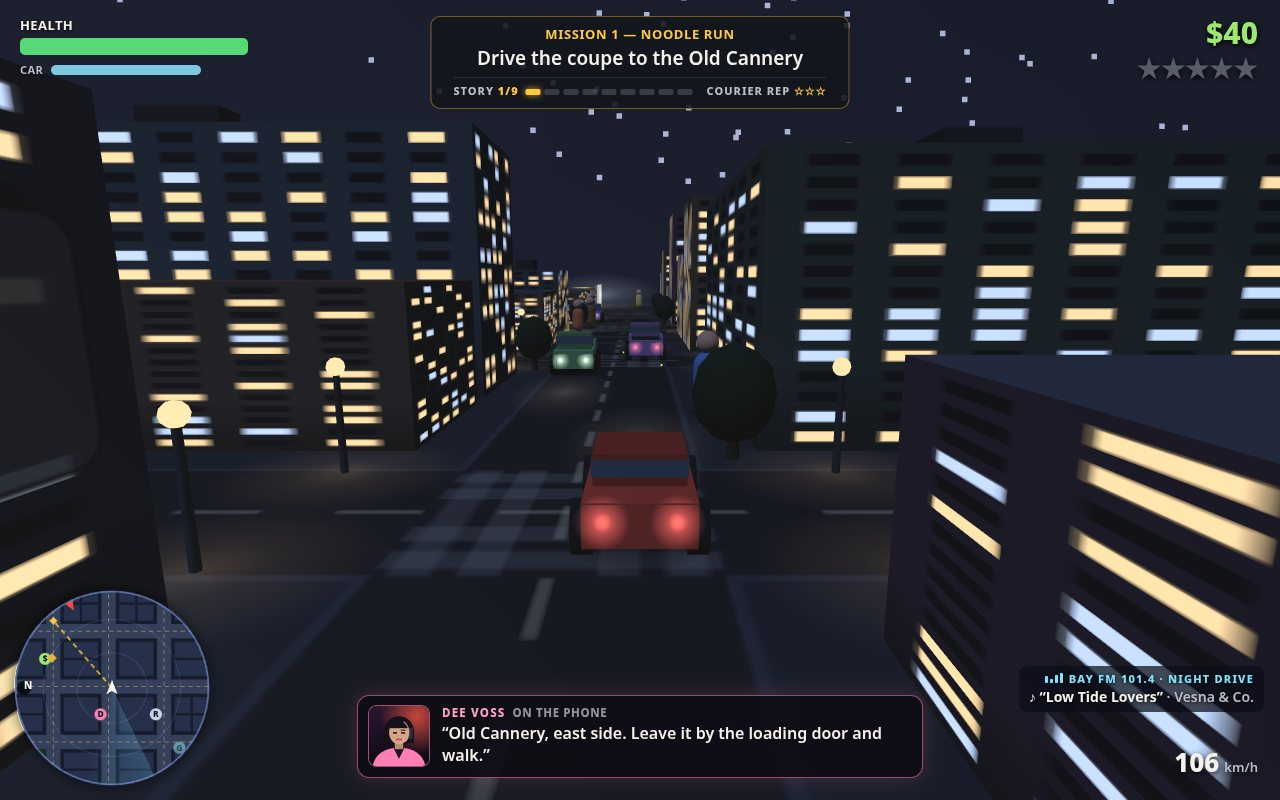
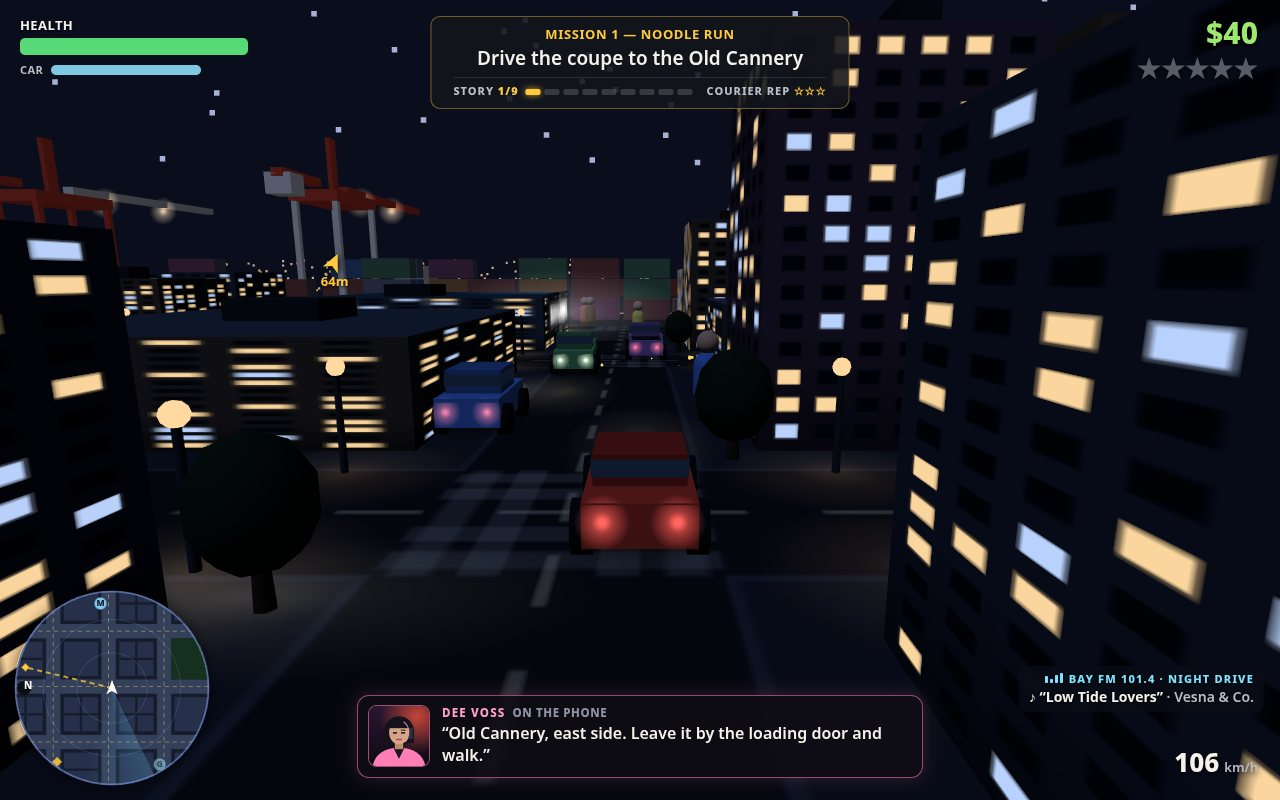
Round 7.9: a visible port — quay, containers, gantry cranes, ship, far shore
East shore by the Marina and Cannery: quay slab with a painted edge,
instanced container stacks (colours from hash2), a docked feeder ship, four
red/white gantry cranes with booms over the water, floodlights and blinking
red aviation beacons (from state.time), and the far shore's lights across the
bay. Water gets a faint emissive. The drive shot (Mission 1, to the Cannery)
now rolls two blocks further east so the street ends on the cranes.

diff --git a/game/src/render3d.js b/game/src/render3d.js
@@ -266,7 +266,7 @@ export function createRenderer(canvas, city) {
   // Water all around, and the island slab the city stands on.
   const water = new THREE.Mesh(
     new THREE.PlaneGeometry(11000, 11000),
-    new THREE.MeshLambertMaterial({ color: 0x0d2032 }),
+    new THREE.MeshLambertMaterial({ color: 0x0f2638, emissive: 0x06121e }),
   );
   water.rotation.x = -Math.PI / 2;
   water.position.set(city.size / 2, -3, city.size / 2);
@@ -419,6 +419,87 @@ export function createRenderer(canvas, city) {
       canopies.setMatrixAt(i, dummy.matrix);
     });
     scene.add(trunks, canopies);
+  }
+
+  // The port, on the east shore by the Marina and the Cannery: a quay, container
+  // stacks, a docked feeder ship, gantry cranes with booms out over the bay and
+  // blinking aviation lights, and the far shore's lights across the water.
+  const E = city.size + 75;
+  const portLights = [];
+  {
+    const quay = new THREE.Mesh(new THREE.BoxGeometry(170, 6, city.size + 150), new THREE.MeshLambertMaterial({ color: 0x2c2f36 }));
+    quay.position.set(E + 85, -3, city.size / 2);
+    scene.add(quay);
+    const edge = new THREE.Mesh(new THREE.BoxGeometry(4, 1.2, city.size + 150), new THREE.MeshBasicMaterial({ color: 0xc9a43a }));
+    edge.position.set(E + 168, 0.6, city.size / 2);
+    scene.add(edge);
+    // Containers: instanced boxes, three high at most, colours from a hash of the slot.
+    const BOX_COLORS = [0x8e3b2e, 0x2f5f8a, 0x3f7a4c, 0xb8742e, 0x6d6f78, 0x8a2f55];
+    const slots = [];
+    for (let row = 0; row < 3; row += 1) {
+      for (let z = 60; z < city.size; z += 66) {
+        const h = Math.floor(hash2(row * 97 + 5, z) * 4);
+        for (let k = 0; k < h; k += 1) slots.push([E + 30 + row * 28, 13 + k * 26, z, BOX_COLORS[Math.floor(hash2(z, row * 13 + k) * BOX_COLORS.length)]]);
+      }
+    }
+    const boxes = new THREE.InstancedMesh(new THREE.BoxGeometry(24, 25, 60), new THREE.MeshLambertMaterial({ color: 0xffffff, emissive: 0x111318 }), slots.length);
+    const m = new THREE.Object3D();
+    slots.forEach(([x, y, z, col], i) => {
+      m.position.set(x, y, z);
+      m.updateMatrix();
+      boxes.setMatrixAt(i, m.matrix);
+      boxes.setColorAt(i, new THREE.Color(col));
+    });
+    scene.add(boxes);
+    // A feeder ship alongside, its deck stacked too.
+    const hull = new THREE.Mesh(new THREE.BoxGeometry(90, 34, 560), new THREE.MeshLambertMaterial({ color: 0x1d2633, emissive: 0x0b0f16 }));
+    hull.position.set(E + 225, 8, 1050);
+    const bridge = new THREE.Mesh(new THREE.BoxGeometry(70, 46, 46), new THREE.MeshLambertMaterial({ color: 0xd8d8d0, emissive: 0x3a3a36 }));
+    bridge.position.set(E + 225, 48, 820);
+    const deck = new THREE.Mesh(new THREE.BoxGeometry(76, 26, 380), new THREE.MeshLambertMaterial({ color: 0x8e3b2e, emissive: 0x1a0c0a }));
+    deck.position.set(E + 225, 38, 1110);
+    scene.add(hull, bridge, deck);
+    // Gantry cranes: four legs, a portal beam, a boom out over the water and a
+    // short back-jib, painted red and white; floodlights under the boom.
+    const red = new THREE.MeshLambertMaterial({ color: 0xb2382b, emissive: 0x3a0e0a });
+    const white = new THREE.MeshLambertMaterial({ color: 0xe6e3da, emissive: 0x3a3936 });
+    const part = (g, w, h, d, mat, x, y, z) => {
+      const mesh = new THREE.Mesh(new THREE.BoxGeometry(w, h, d), mat);
+      mesh.position.set(x, y, z);
+      g.add(mesh);
+    };
+    const floodTex = new THREE.SpriteMaterial({ map: glowTex, color: 0xffd9a0, transparent: true, opacity: 0.9, depthWrite: false, blending: THREE.AdditiveBlending, fog: false });
+    const aviation = new THREE.SpriteMaterial({ map: glowTex, color: 0xff2a20, transparent: true, depthWrite: false, blending: THREE.AdditiveBlending, fog: false });
+    [380, 760, 1340, 1720].forEach((z, n) => {
+      const g = new THREE.Group();
+      for (const lx of [0, 110]) for (const lz of [-26, 26]) part(g, 7, 150, 7, n % 2 ? white : red, lx, 75, lz);
+      part(g, 122, 14, 62, red, 55, 156, 0);
+      part(g, 300, 10, 14, n % 2 ? red : white, 230, 172, 0);
+      part(g, 90, 10, 14, red, -40, 172, 0);
+      part(g, 30, 24, 30, white, -70, 160, 0);
+      part(g, 16, 70, 6, red, 55, 200, 0);
+      for (const fx of [140, 260]) {
+        const flood = new THREE.Sprite(floodTex);
+        flood.position.set(fx, 162, 0);
+        flood.scale.setScalar(46);
+        g.add(flood);
+      }
+      const beacon = new THREE.Sprite(aviation);
+      beacon.position.set(55, 238, 0);
+      beacon.scale.setScalar(34);
+      g.add(beacon);
+      portLights.push({ beacon, phase: n * 0.37 });
+      g.position.set(E + 40, 0, z);
+      scene.add(g);
+    });
+    // The far shore across the bay: a band of tiny lights that the fog leaves alone.
+    const far = [];
+    for (let i = 0; i < 420; i += 1) {
+      far.push(E + 1700 + hash2(i, 3) * 500, 4 + hash2(i, 7) ** 2 * 120, -600 + hash2(i, 11) * (city.size + 1200));
+    }
+    const farGeo = new THREE.BufferGeometry();
+    farGeo.setAttribute('position', new THREE.Float32BufferAttribute(far, 3));
+    scene.add(new THREE.Points(farGeo, new THREE.PointsMaterial({ color: 0xffd9a0, size: 2.2, sizeAttenuation: false, fog: false, transparent: true, opacity: 0.75 })));
   }
 
   // ---------------------------------------------------------- dynamic things
@@ -1091,6 +1172,7 @@ export function createRenderer(canvas, city) {
     syncPeople(state, ui, state.time);
     syncEffects(state, ui, state.time);
     syncAir(state, state.time);
+    for (const { beacon, phase } of portLights) beacon.visible = (state.time * 0.8 + phase) % 1 < 0.5;
     placeCamera(world, ui, dt);
     renderer.render(scene, camera);
   }

diff --git a/game/src/shots.js b/game/src/shots.js
@@ -89,7 +89,7 @@ function stageStart(world, city) {
 }
 
 /** Mid-errand: Rook in Dee's coupe in moving traffic, the cannery run on the HUD,
- *  rolling past the noodle bar and Rook's own place, both signs in frame. */
+ *  Dee on the phone, and the port's cranes lit up where the street meets the bay. */
 function stageDrive(world, missions, city) {
   const noodle = city.specials.noodle;
   // Walk up to Dee: the first mission starts, exactly as it does in play.
@@ -97,18 +97,19 @@ function stageDrive(world, missions, city) {
   updateMissions(missions, world, city);
   const coupe = world.state.coupe;
   const laneY = streetCenterY(4) + TRAFFIC.laneOffset; // the eastbound lane below the noodle bar
-  coupe.x = 950;
+  // Two blocks east of Dee's door, heading for the Cannery: the street ends on the port.
+  coupe.x = 1510;
   coupe.y = laneY;
   coupe.angle = 0;
   coupe.speed = 228;
   // Company on the road: one car ahead in lane, one coming the other way, one behind.
   const traffic = world.state.cars.filter((car) => car.kind === 'traffic');
-  stageTraffic(traffic[0], 1330, laneY, 1, 205, 4, 5);
-  stageTraffic(traffic[1], 1520, streetCenterY(4) - TRAFFIC.laneOffset, -1, 198, 4, 3);
-  stageTraffic(traffic[2], 740, laneY, 1, 218, 4, 4);
+  stageTraffic(traffic[0], 1890, laneY, 1, 205, 4, 7);
+  stageTraffic(traffic[1], 2080, streetCenterY(4) - TRAFFIC.laneOffset, -1, 198, 4, 5);
+  stageTraffic(traffic[2], 1300, laneY, 1, 218, 4, 6);
   placePeds(world, [
-    [1050, noodle.y - 7],
-    [1230, noodle.y + 95],
+    [1610, noodle.y - 7],
+    [1790, noodle.y + 95],
   ], 5);
   world.putPlayerInCar(coupe);
   updateMissions(missions, world, city); // the enterCoupe step completes, as in play
